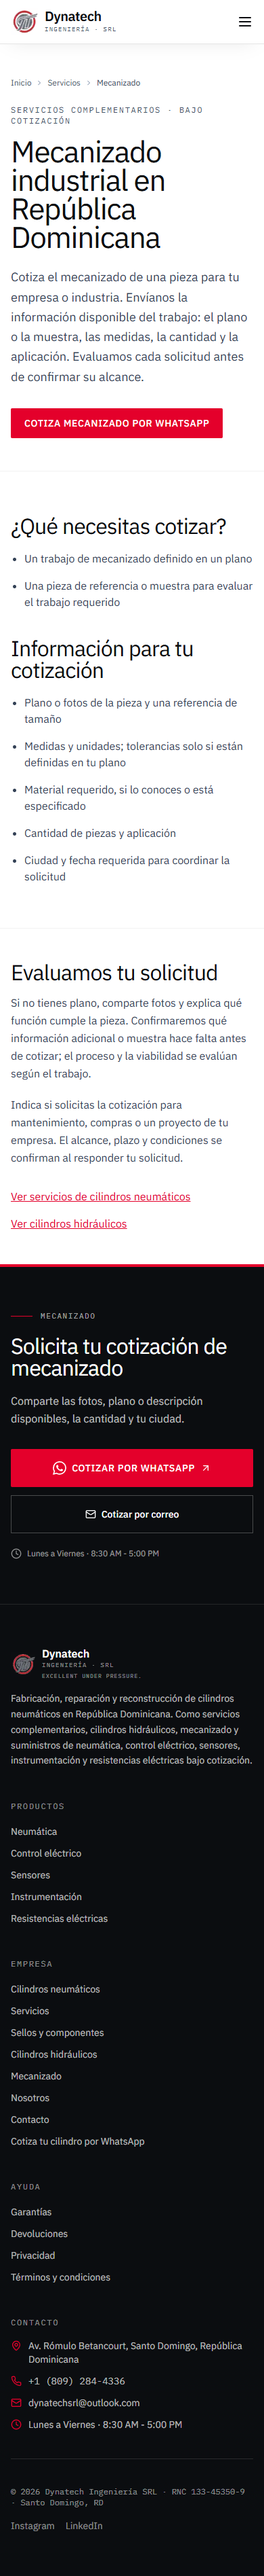
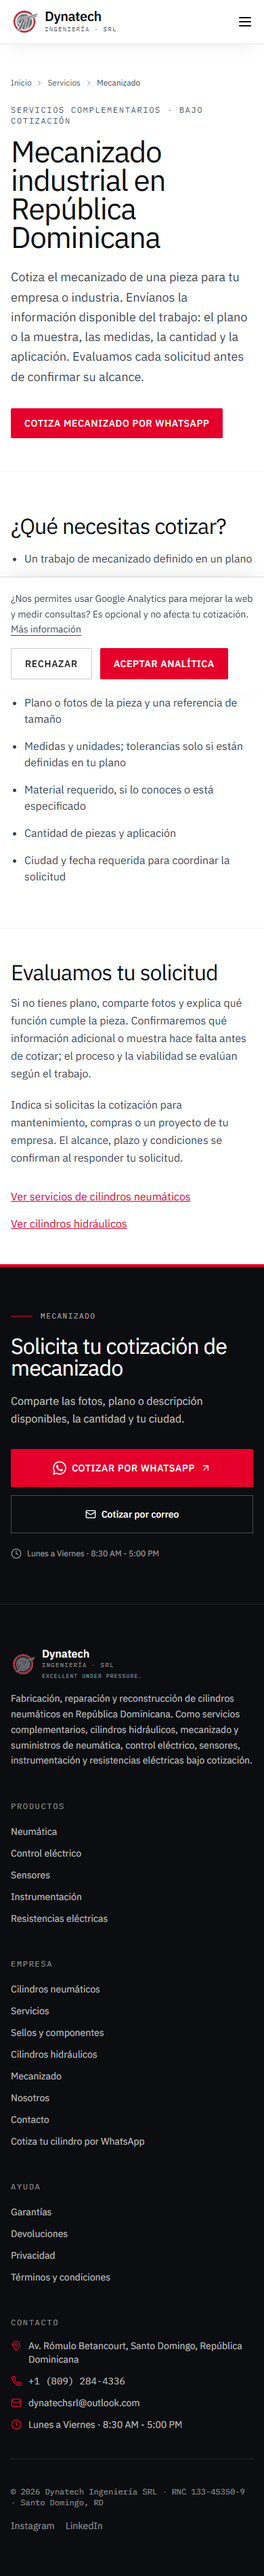
Conecta GA4 con consentimiento y eventos comerciales controlados

Changed region(s): [[0.0308, 0.2178, 0.9538, 0.2801]]

diff --git a/src/components/GoogleAnalytics.tsx b/src/components/GoogleAnalytics.tsx
@@ -1,0 +1,82 @@
+"use client";
+
+import Link from "next/link";
+import { useEffect, useRef, useSyncExternalStore } from "react";
+import { usePathname } from "next/navigation";
+import { SITE } from "@/lib/constants";
+
+const ID = "G-9JET3799ZE";
+const KEY = "dynatech.analytics-consent.v1";
+const CHANGE = "dynatech:analytics-consent";
+const EVENTS = new Set(["whatsapp_click", "phone_click", "email_click", "quote_form_open", "generate_lead"]);
+type AnalyticsWindow = Window & { dataLayer?: unknown[]; gtag?: (...args: unknown[]) => void; [key: `ga-disable-${string}`]: boolean };
+function snapshot() { try { return localStorage.getItem(KEY); } catch { return null; } }
+function subscribe(callback: () => void) {
+  window.addEventListener(CHANGE, callback);
+  window.addEventListener("storage", callback);
+  return () => { window.removeEventListener(CHANGE, callback); window.removeEventListener("storage", callback); };
+}
+function choose(value: string) {
+  try { localStorage.setItem(KEY, value); } catch { return; }
+  window.dispatchEvent(new Event(CHANGE));
+}
+function cleanReferrer() {
+  try { const url = new URL(document.referrer); return url.pathname.startsWith("/admin") ? "" : url.origin + url.pathname; } catch { return ""; }
+}
+function initialize() {
+  const target = window as unknown as AnalyticsWindow;
+  target[`ga-disable-${ID}`] = false;
+  if (target.gtag) { target.gtag("consent", "update", { analytics_storage: "granted" }); return; }
+  target.dataLayer ??= [];
+  // gtag exige un objeto arguments en la cola oficial.
+  // eslint-disable-next-line prefer-rest-params
+  target.gtag = function () { target.dataLayer!.push(arguments); };
+  target.gtag("consent", "default", { analytics_storage: "granted", ad_storage: "denied", ad_user_data: "denied", ad_personalization: "denied" });
+  target.gtag("js", new Date());
+  target.gtag("config", ID, { send_page_view: false, allow_google_signals: false, allow_ad_personalization_signals: false, page_location: SITE.url + window.location.pathname, page_referrer: cleanReferrer() });
+  const script = document.createElement("script");
+  script.id = "dynatech-ga4";
+  script.async = true;
+  script.src = `https://www.googletagmanager.com/gtag/js?id=${ID}`;
+  document.head.appendChild(script);
+}
+
+/** Analítica opcional: carga solo tras aceptar, sin query, mensajes ni campos personales. */
+export function GoogleAnalytics() {
+  const pathname = usePathname();
+  const consent = useSyncExternalStore(subscribe, snapshot, () => null);
+  const lastPage = useRef<string | null>(null);
+  const admin = pathname.startsWith("/admin");
+  useEffect(() => {
+    const target = window as unknown as AnalyticsWindow;
+    if (consent !== "accepted" || admin) {
+      target[`ga-disable-${ID}`] = true;
+      lastPage.current = null;
+      return;
+    }
+    initialize();
+    const location = SITE.url + pathname;
+    target.gtag!("set", { page_location: location, page_referrer: cleanReferrer() });
+    if (lastPage.current !== pathname) {
+      target.gtag!("event", "page_view", { send_to: ID, page_location: location, page_title: document.title, page_referrer: cleanReferrer() });
+      lastPage.current = pathname;
+    }
+    function onConversion(event: Event) {
+      const detail = (event as CustomEvent).detail;
+      if (!detail || !EVENTS.has(detail.event) || snapshot() !== "accepted" || window.location.pathname.startsWith("/admin")) return;
+      target.gtag!("event", detail.event, { send_to: ID, channel: detail.channel, ...(detail.placement ? { placement: detail.placement } : {}), page_path: window.location.pathname, page_location: SITE.url + window.location.pathname });
+    }
+    window.addEventListener("dynatech:conversion", onConversion);
+    return () => window.removeEventListener("dynatech:conversion", onConversion);
+  }, [consent, pathname, admin]);
+  if (admin) return null;
+  if (consent) return <button type="button" onClick={() => choose("")} className="fixed bottom-2 left-2 z-40 border border-black/15 bg-white px-3 py-2 text-xs text-steel-300 shadow-sm">Preferencias de analítica</button>;
+  return (
+    <section aria-label="Preferencias de analítica" className="fixed inset-x-0 bottom-0 z-50 border-t border-black/15 bg-white shadow-[0_-8px_30px_-15px_rgba(0,0,0,0.2)]">
+      <div className="container-max flex flex-col gap-4 py-5 md:flex-row md:items-center md:justify-between">
+        <p className="max-w-2xl text-sm leading-relaxed text-steel-300">¿Nos permites usar Google Analytics para mejorar la web y medir consultas? Es opcional y no afecta tu cotización. <Link href="/privacidad" className="underline underline-offset-4">Más información</Link></p>
+        <div className="flex shrink-0 gap-3"><button type="button" onClick={() => choose("rejected")} className="btn-secondary">Rechazar</button><button type="button" onClick={() => choose("accepted")} className="btn-primary">Aceptar analítica</button></div>
+      </div>
+    </section>
+  );
+}

diff --git a/src/app/privacidad/page.tsx b/src/app/privacidad/page.tsx
@@ -13,7 +13,7 @@ export default function PrivacidadPage() {
     <LegalPage
       eyebrow="Legal"
       title="Política de privacidad"
-      updated="julio 2026"
+      updated="octubre 2026"
       intro={`Este es un documento de referencia general — si tu empresa requiere una versión revisada por asesoría legal, contáctanos y la actualizamos. En Dynatech Ingeniería SRL ("Dynatech", "nosotros") respetamos la privacidad de quienes visitan ${SITE.url} y usan nuestros formularios de cotización y contacto.`}
       sections={[
         {
@@ -78,9 +78,15 @@ export default function PrivacidadPage() {
           heading: "Cookies y analítica",
           body: (
             <p>
-              Este sitio puede usar cookies técnicas o de analítica básica para entender cómo se
-              usa el sitio y mejorar la experiencia de navegación. No usamos esta información
-              para publicidad de terceros.
+              Usamos Google Analytics solo si aceptas la analítica en el aviso del sitio.
+              Google recibe datos técnicos de navegación, páginas visitadas y eventos como
+              clics en WhatsApp o solicitudes enviadas. No enviamos nombres, correos,
+              teléfonos, mensajes, adjuntos ni contenidos de formularios a Analytics.
+              La analítica puede usar cookies y Google procesa los datos para prestar el servicio.
+              No activamos funciones publicitarias. Puedes rechazarla o retirar tu permiso
+              en «Preferencias de analítica». La elección se guarda en tu navegador.
+              Las cookies técnicas necesarias para el funcionamiento son independientes.
+              Consulta la política de Google en policies.google.com/privacy.
             </p>
           ),
         },

diff --git a/src/app/layout.tsx b/src/app/layout.tsx
@@ -4,6 +4,7 @@ import { Navbar } from "@/components/layout/Navbar";
 import { Footer } from "@/components/layout/Footer";
 import { SITE, CONTACT } from "@/lib/constants";
 import { CommercialTracking } from "@/components/CommercialTracking";
+import { GoogleAnalytics } from "@/components/GoogleAnalytics";
 import "./globals.css";
 
 const organizationJsonLd = {
@@ -95,6 +96,7 @@ export default function RootLayout({
           dangerouslySetInnerHTML={{ __html: JSON.stringify(organizationJsonLd) }}
         />
         <CommercialTracking />
+        <GoogleAnalytics />
         <Navbar />
         <main className="flex-1">{children}</main>
         <Footer />

diff --git a/docs/SEO_CONVERSIONES.md b/docs/SEO_CONVERSIONES.md
@@ -71,3 +71,14 @@ Validación final del rediseño: typecheck y build correctos; lint sin errores (
 ### Portada v2 solicitada por el propietario
 
 Se sustituyó la imagen del técnico por una nueva ilustración fotográfica generada con IA, usando la portada anterior como referencia. No representa un empleado, instalación ni trabajo real verificado. Se conserva el texto alternativo de imagen de referencia. El logo original se compone en HTML con su archivo existente y texto legible, separado de la imagen, evitando deformaciones generativas. Asset optimizado: public/cilindros/taller-portada-v2.webp. Se conserva la fotografía anterior. Typecheck, lint sin errores y build correctos; imagen cargada y sin desbordamiento a 390/1440 px. Capturas portada-v2-390.png y portada-v2-1440.png. Publicación pendiente de aprobación expresa del propietario.
+
+
+## Conexión GA4 autorizada
+
+Se creó la cuenta Dynatech Ingeniería SRL y propiedad Dynatech · www.dynatech.com.do con el correo original del propietario. Cuenta 410564641, propiedad 557207605, flujo 15976146436, ID público G-9JET3799ZE. Horario República Dominicana, moneda RD$. Google Analytics recibe page_view y los cinco eventos comerciales después de aceptar analítica; antes de aceptar o después de rechazar no carga la etiqueta. La preferencia puede cambiarse y se conserva localmente. No se activan funciones publicitarias ni Google Signals.
+
+Medición mejorada desactivada en la interfaz de GA4: no recolección automática de URLs de WhatsApp, formularios ni navegación duplicada. Rutas y referrer enviados sin query/hash; sin texto de formularios o mensajes; admin excluido. generate_lead se marcó como evento clave, contado por evento y sin valor monetario predeterminado. Los clics de WhatsApp son intención, no conversaciones ni ventas. La política de privacidad describe Google y la opción de rechazo.
+
+Pruebas: tests/analytics.test.mjs (etiqueta simulada) verifica carga solo tras consentimiento, rechazo, retirada, rutas SPA, un evento por acción, ausencia de query y mensajes, exclusión de admin y ausencia de overflow a 390 px. Typecheck, lint sin errores y build correctos; prueba comercial 54 combinaciones correcta. Captura analytics-consent-390.png. No se hicieron envíos reales de formularios en estas pruebas.
+
+Referencias técnicas: https://developers.google.com/analytics/devguides/collection/ga4/views y https://developers.google.com/tag-platform/gtagjs/reference.

diff --git a/PROJECT_CONTEXT.md b/PROJECT_CONTEXT.md
@@ -1,3 +1,5 @@
+> GA4 conectado por solicitud del propietario: G-9JET3799ZE, GoogleAnalytics.tsx con consentimiento opcional y eventos comerciales controlados. Ver docs/SEO_CONVERSIONES.md.
+
 # PROJECT_CONTEXT.md — Dynatech Web
 
 > Prioridad comercial confirmada por el dueño, 2-oct-2026: cilindros neumáticos primero; cilindros hidráulicos y mecanizado como servicios complementarios. Mantener esa jerarquía en inicio, SEO, CTA y enlaces.
